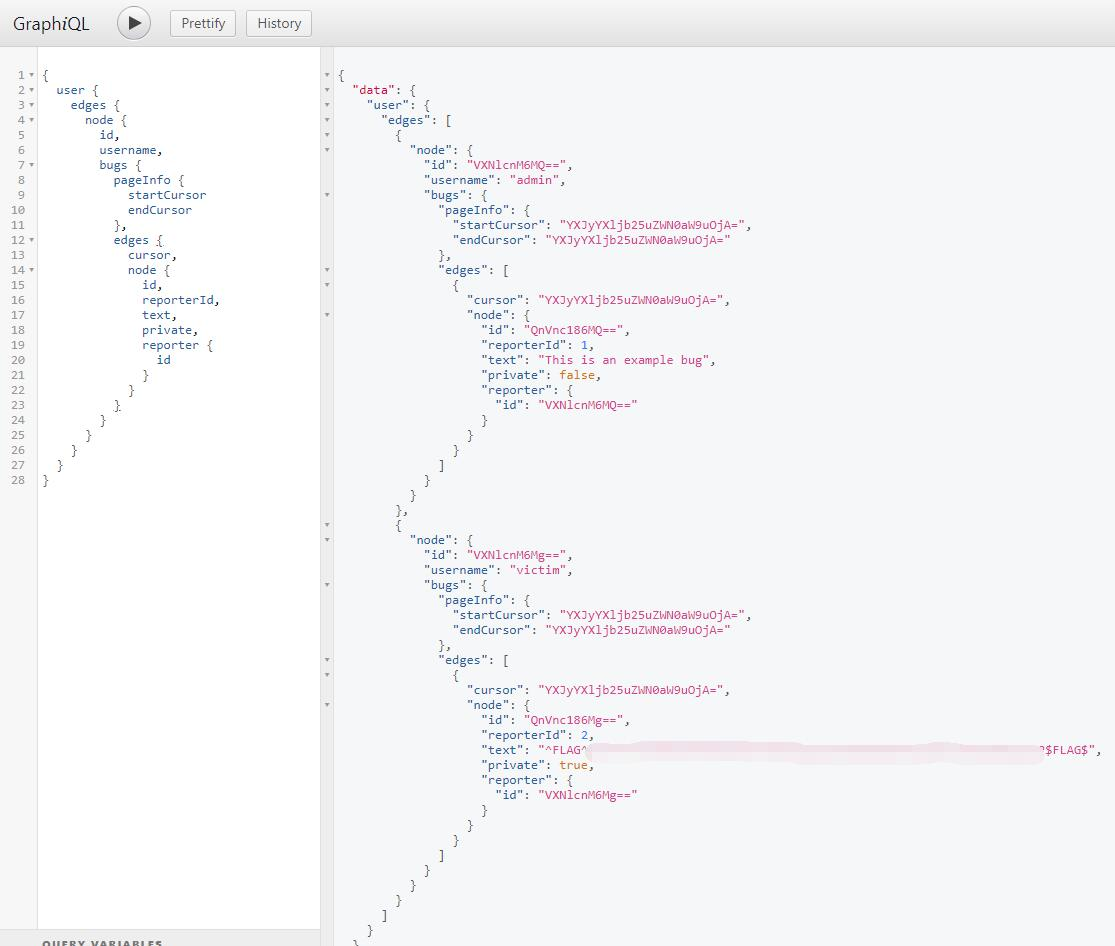
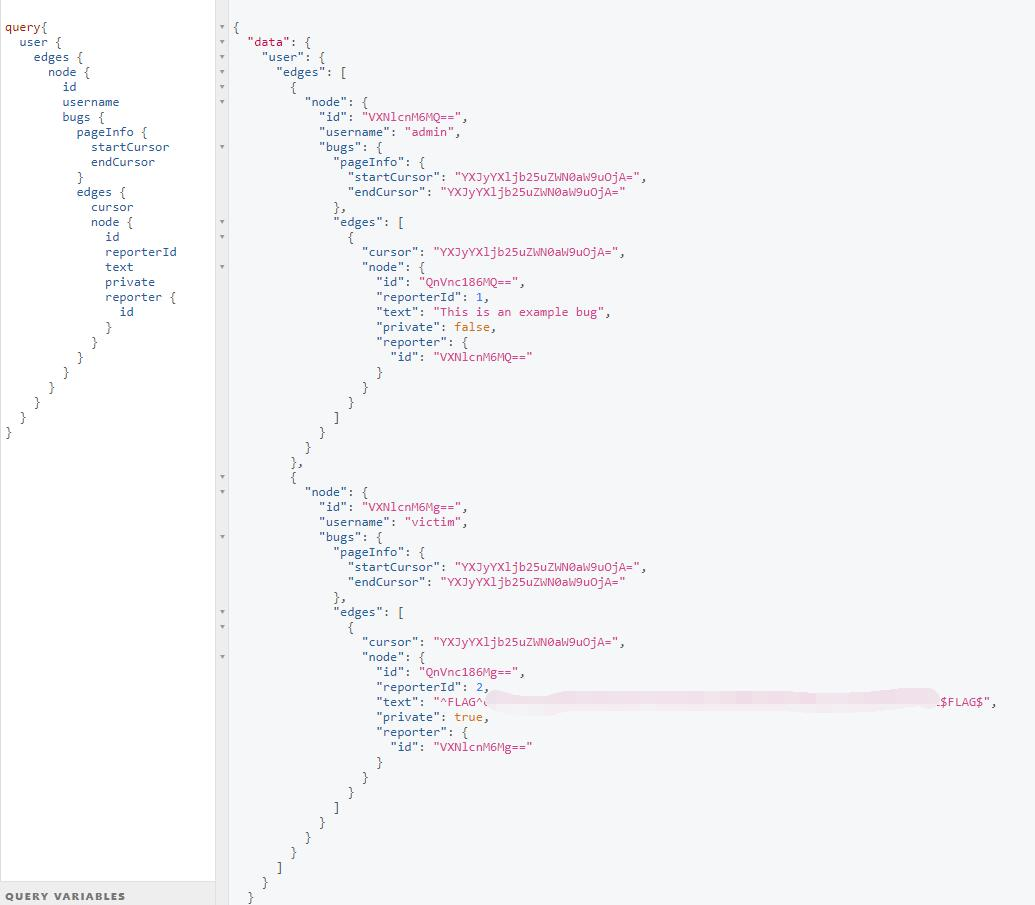
update bugdb_v1

diff --git a/bugdb_v1/flag0/README.md b/bugdb_v1/flag0/README.md
@@ -13,24 +13,24 @@ There is also a very clear structure of data at very right side for reference.
 So just make a query to loop through all the details of the data set.
 
 ```graphql
-{
+query{
   user {
     edges {
       node {
-        id,
-        username,
+        id
+        username
         bugs {
           pageInfo {
-            startCursor,
+            startCursor
             endCursor
-          },
+          }
           edges {
-            cursor,
+            cursor
             node {
-              id,
-              reporterId,
-              text,
-              private,
+              id
+              reporterId
+              text
+              private
               reporter {
                 id
               }
